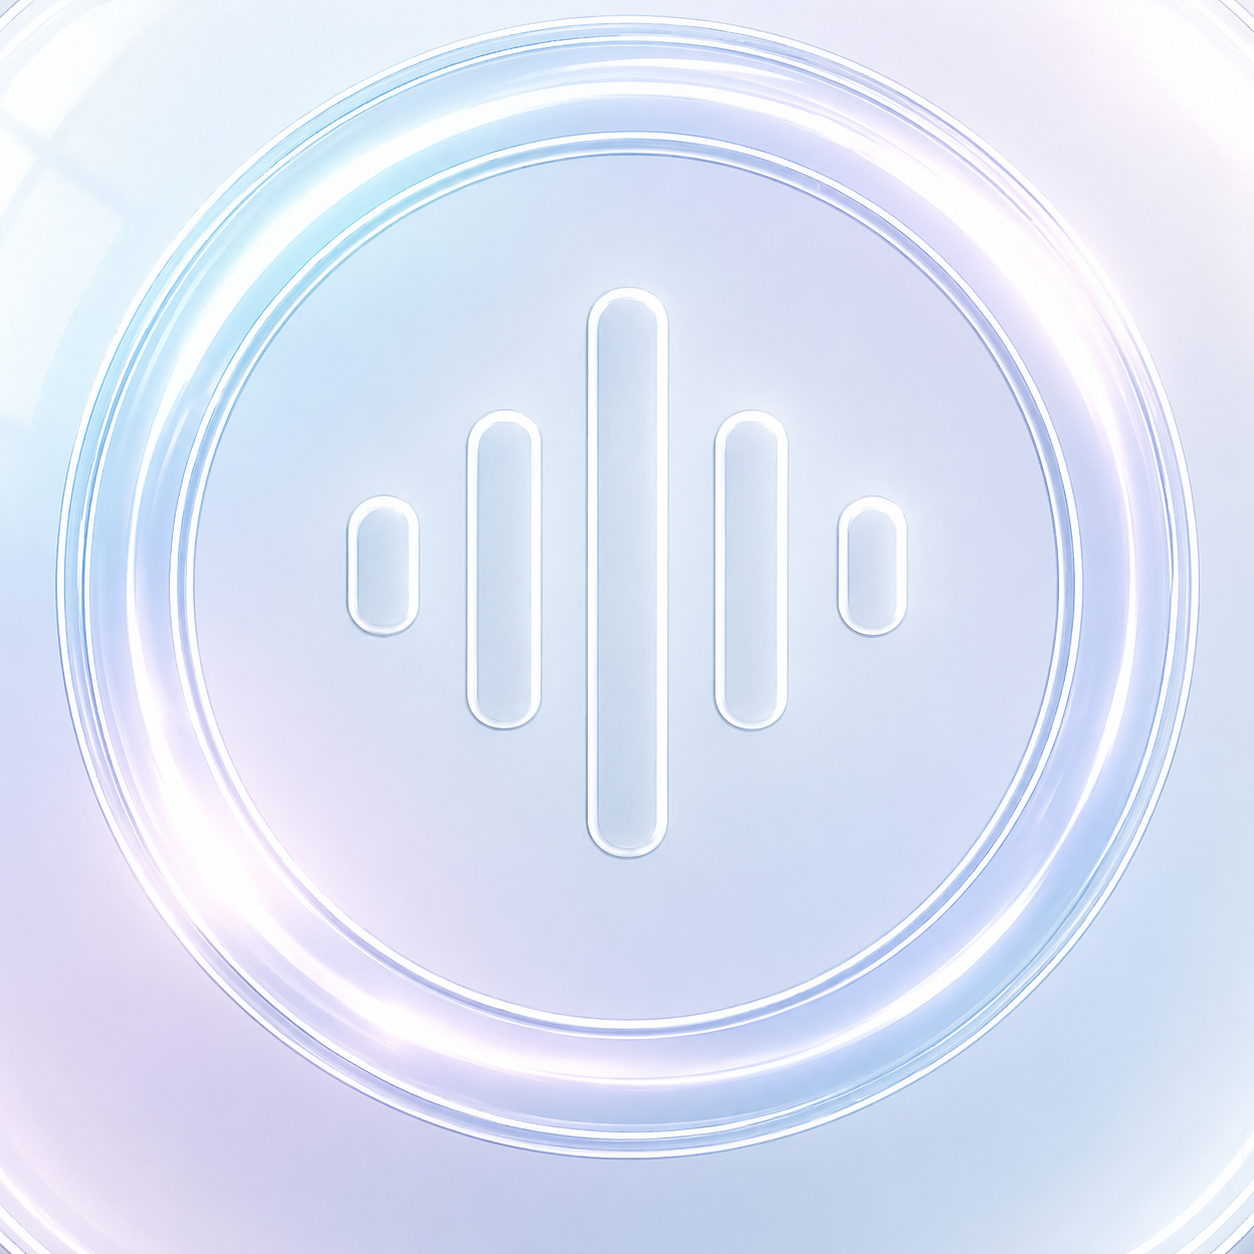
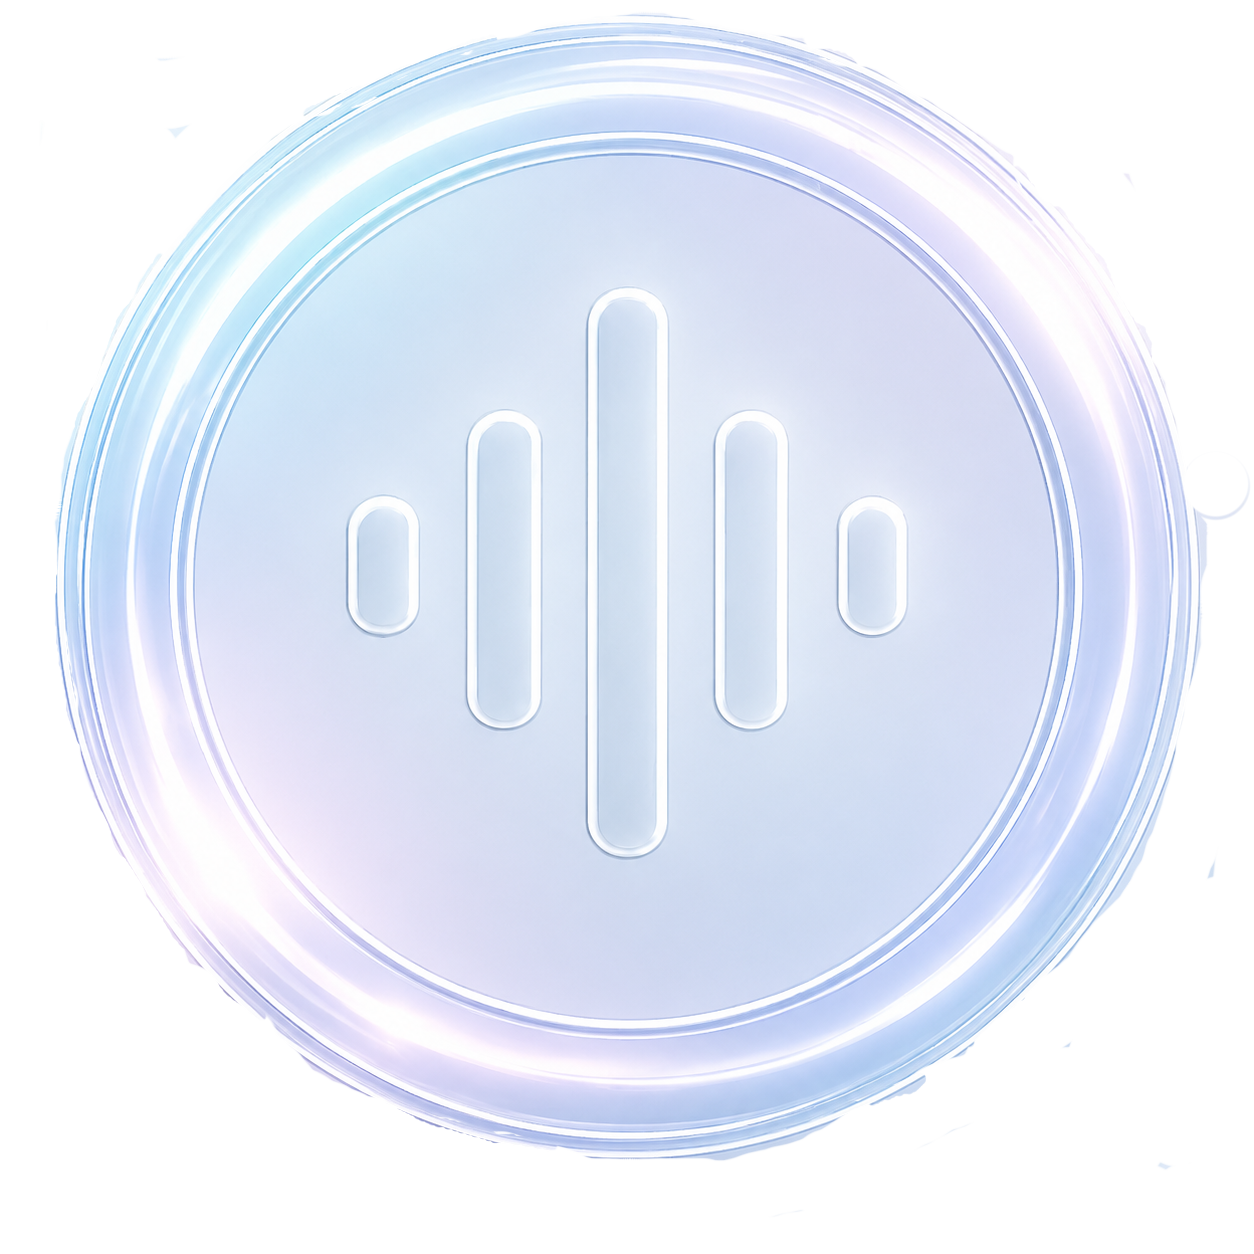
h

Changed region(s): [[0.0, 0.0311, 1.0, 1.0], [0.9952, 0.0, 1.0, 0.0311], [0.0, 0.0, 0.0311, 0.0311]]

diff --git a/docs/index.html b/docs/index.html
@@ -166,6 +166,10 @@
       color: #fff; border-radius: 30px; padding: 56px 40px; text-align: center;
       box-shadow: 0 30px 80px rgba(12,14,20,0.30);
     }
+    .voice-eyebrow {
+      font-size: 0.8rem; font-weight: 700; letter-spacing: 0.12em; text-transform: uppercase;
+      color: rgba(255,255,255,0.55); margin-bottom: 14px;
+    }
     .voice-strip h2 { font-size: clamp(1.7rem, 4vw, 2.5rem); letter-spacing: -0.02em; margin-bottom: 16px; }
     .voice-strip p { color: rgba(255,255,255,0.72); max-width: 560px; margin: 0 auto 30px; font-size: 1.05rem; }
     .chips { display: flex; flex-wrap: wrap; gap: 12px; justify-content: center; }
@@ -187,7 +191,7 @@
       background: radial-gradient(closest-side, rgba(92,140,255,0.42), rgba(148,115,242,0.28), transparent 72%);
       filter: blur(28px);
     }
-    .device img { display: block; width: 100%; border-radius: 36px; }
+    .device img, .device video { display: block; width: 100%; border-radius: 36px; }
     .device-caption { text-align: center; color: var(--ink-soft); font-size: 0.9rem; margin-top: 20px; }
 
     /* ---------- Footer ---------- */
@@ -203,10 +207,10 @@
     <div class="wrap">
       <div class="brand"><img src="assets/halo.png" alt="Halo Lifestyle icon" /> Halo Lifestyle</div>
       <div class="nav-links">
+        <a href="#demo">Demo</a>
         <a href="#trackers">Trackers</a>
         <a href="#voice">Voice</a>
         <a href="#built">Behind the Scenes</a>
-        <a href="#demo">Demo</a>
         <a href="https://github.com/shankar-sachin/halo" target="_blank" rel="noopener">GitHub</a>
       </div>
     </div>
@@ -225,7 +229,7 @@
       </div>
     <section id="demo" class="reveal"> 
       <div class="device reveal">
-        <img src="assets/demo.gif" alt="Halo Lifestyle — logging an entry by voice" />
+        <video src="assets/demo.mp4" autoplay loop muted playsinline preload="metadata" aria-label="Halo Lifestyle — logging an entry by voice"></video>
       </div>
       <p class="device-caption">Halo Lifestyle in action.</p>
     </section>
@@ -271,13 +275,14 @@
   <section id="voice">
     <div class="wrap">
       <div class="voice-strip reveal">
-        <h2>Talk to Halo</h2>
-        <p>A voice mode reachable from every tab. On-device speech recognition routes spoken commands to the right tracker — no network round-trip, nothing leaves your phone.</p>
+        <div class="voice-eyebrow">One command for everything</div>
+        <h2>“Hey&nbsp;Siri, tell&nbsp;Halo&nbsp;that…”</h2>
+        <p>…and Halo figures out the rest — no app to open, no tab to find. A voice mode is also built into every tab. On-device speech recognition routes spoken commands to the right tracker — no network round-trip, nothing leaves your phone.</p>
         <div class="chips">
-          <div class="chip">“Halo, <b>add a to-do</b> to call the dentist”</div>
-          <div class="chip">“<b>Log</b> a turkey sandwich”</div>
-          <div class="chip">“I <b>drank</b> a glass of water”</div>
-          <div class="chip">“<b>Note</b>: book flights for July”</div>
+          <div class="chip">“…<b>add a to-do</b> to call the dentist”</div>
+          <div class="chip">“…I <b>ate</b> a turkey sandwich”</div>
+          <div class="chip">“…I <b>drank</b> a glass of water”</div>
+          <div class="chip">“…<b>note</b> to book flights for July”</div>
         </div>
       </div>
     </div>
@@ -294,6 +299,10 @@
         <div class="cap reveal">
           <h3><span class="pip" style="background:var(--todo)"></span> Siri &amp; App Intents</h3>
           <p>Add to-dos, notes, and meals by voice without ever opening the app.</p>
+        </div>
+        <div class="cap reveal">
+          <h3><span class="pip" style="background:var(--pills)"></span> In-app voice</h3>
+          <p>Prefer to keep it in the app? Tap <b>“Talk to Halo”</b> from any tab and speak a whole sentence — on-device recognition logs it to the right tracker, no Siri needed.</p>
         </div>
         <div class="cap reveal">
           <h3><span class="pip" style="background:var(--diet)"></span> HealthKit</h3>

diff --git a/README.md b/README.md
@@ -29,8 +29,8 @@ Eight tabs, one shared data store:
 
 Plus:
 
-- **Talk to Halo** — a voice mode accessible from every tab. On-device speech recognition routes spoken commands to the right tracker.
-- **Siri & App Intents** — add to-dos, notes, and meals by voice without opening the app.
+- **"Hey Siri, tell Halo that…"** — one command for everything. Say *"Hey Siri, tell Halo that I drank a glass of water"* (or to add a to-do, log a meal, …) and Halo figures out the rest — no app to open, no tab to find.
+- **Talk to Halo (in-app voice)** — prefer to stay in the app? Tap **"Talk to Halo"** from any tab and speak a whole sentence. On-device speech recognition routes the command to the right tracker — no Siri needed, nothing leaves your phone.
 - **WidgetKit** — home-screen widgets for upcoming to-dos and the daily calorie ring.
 - **HealthKit** — dietary energy reads/writes keep daily totals in sync with Apple Health.
 - **App Group** — the app, the widgets, and the Siri intents share one SwiftData store (`group.com.sachi.halo`), so an entry created by Siri shows up everywhere immediately.